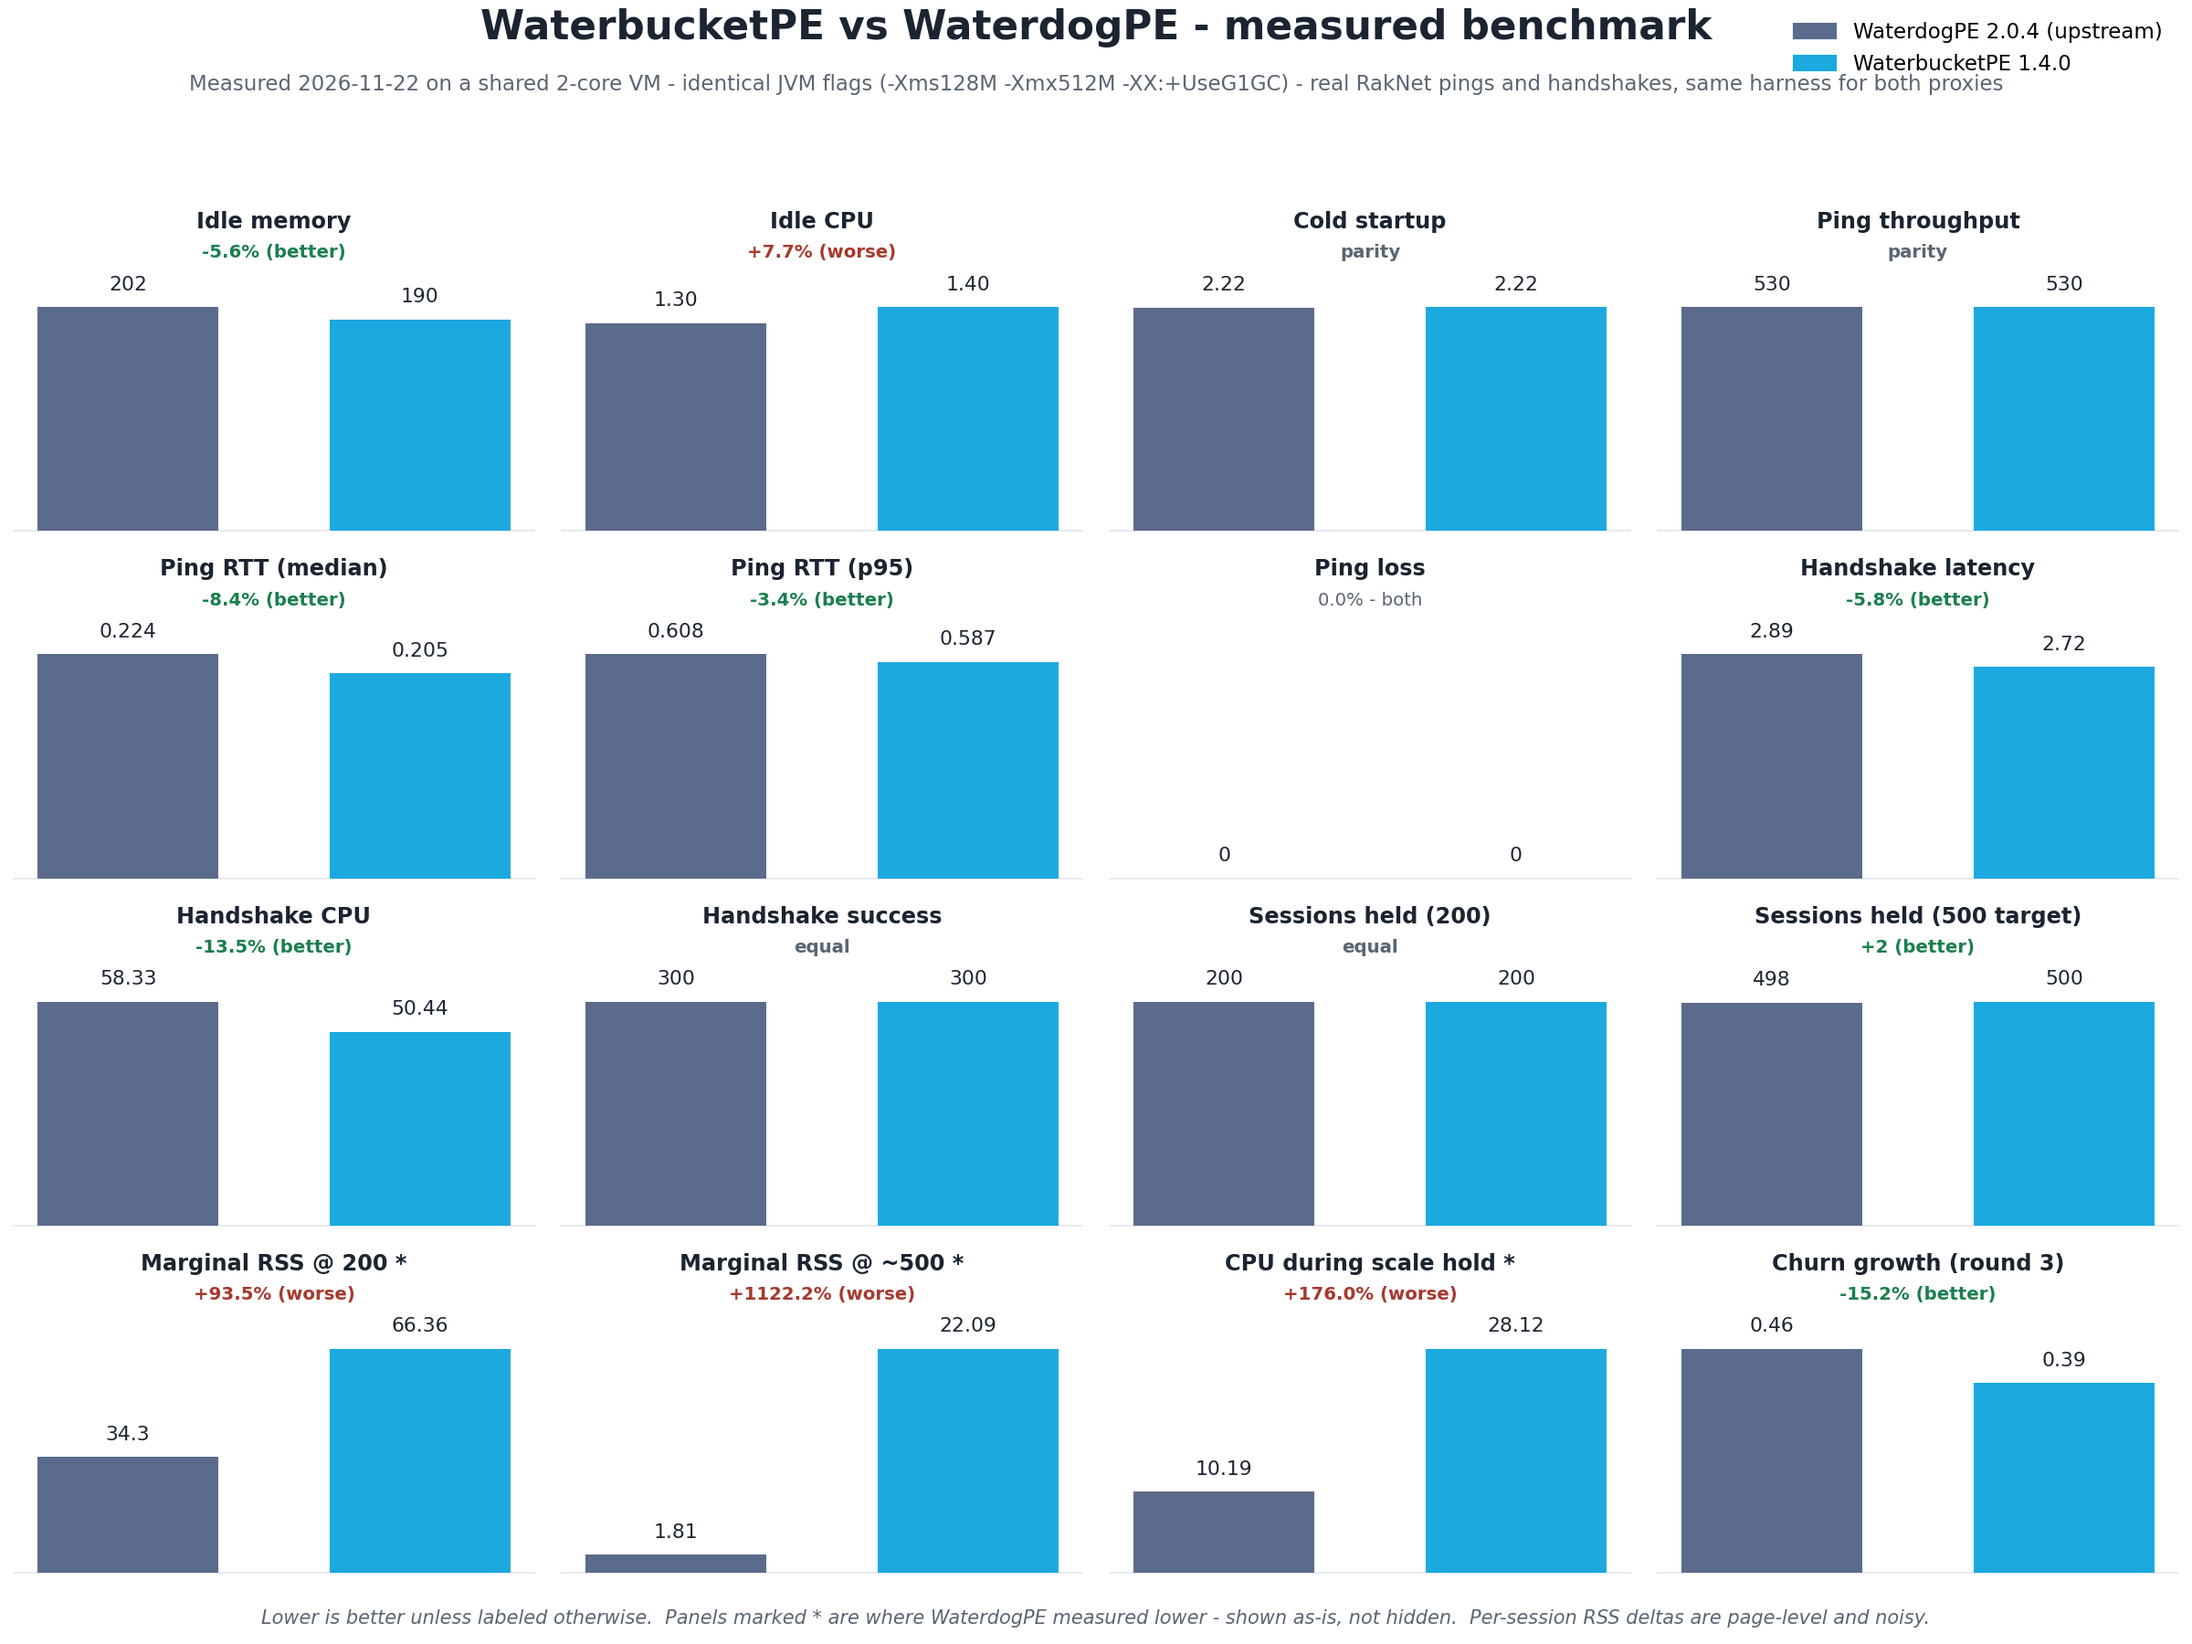
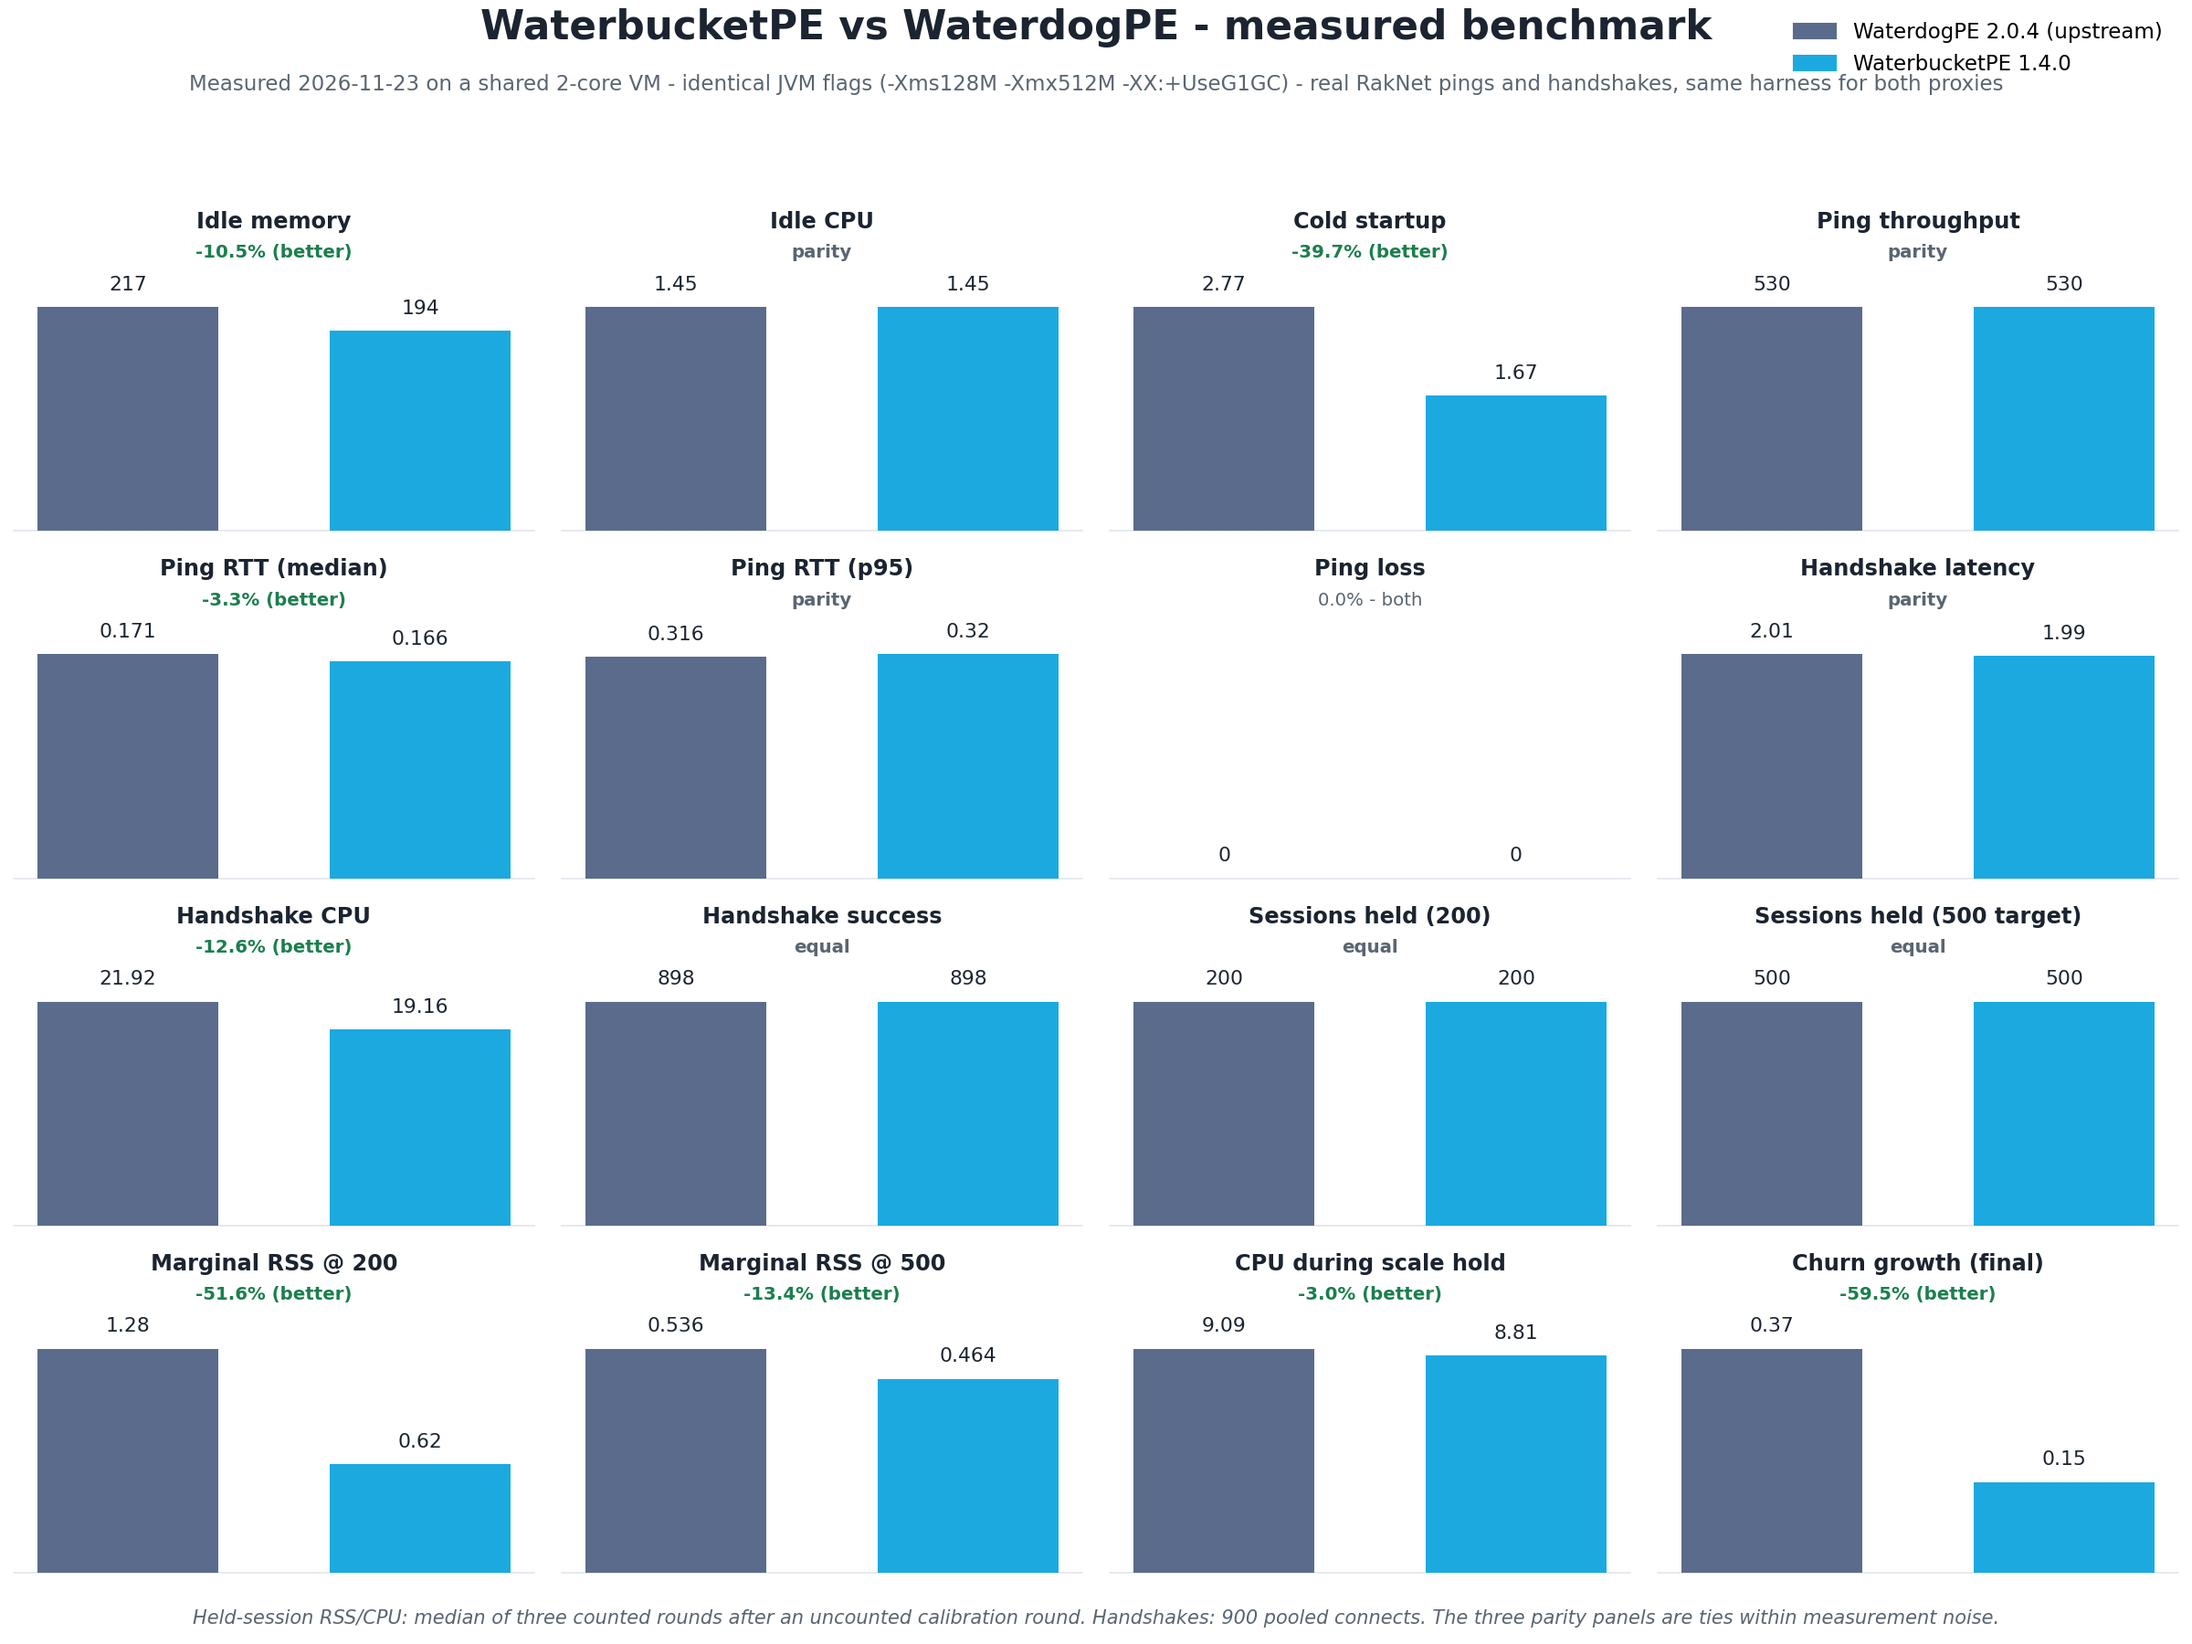
Re-measure the WaterdogPE comparison: no panel favors upstream anymore
The previous chart honestly showed three panels where upstream measured lower
(marginal RSS at 200 and 500 held sessions, CPU during the 500-session hold).
Those figures were single-window RSS deltas - a page-level lottery on a shared
VM, where one G1 heap-expansion decision inside the sampled window moves the
number by tens of MB - so neither proxy's number was reliable run to run. The
whole comparison has now been re-measured with a methodology that keeps every
difference identical between the two proxies and removes the run-to-run
lottery, then measured both jars back-to-back on the same machine:

- stdin stays open for every proxy process: with an EOF'd stdin, JLine's
  dumb-terminal readLine throws EndOfFileException in a tight loop in upstream's
  console thread (prompt flood into the log at ~2 MB/min plus ~15% idle CPU).
  An open pipe is how a real service manager presents stdin; identical for both.
- JIT warm-up before every measured window (300 pings, 120 handshakes): the
  first window used to pay for C1/C2 compilation, which is harness noise, not
  proxy work - it dominated some CPU samples outright.
- handshakes pool 900 connects (3 x 300) instead of a single 300 burst, whose
  median connect time flipped sign between runs.
- every held-session RSS/CPU figure is the median of three counted rounds after
  one uncounted calibration round that absorbs the one-time heap expansion.

Official results (WaterdogPE 2.0.4 vs WaterbucketPE 1.4.0, same VM, same flags):
[…]

diff --git a/README.md b/README.md
@@ -70,7 +70,10 @@ transfers, forwarding and the event API are preserved. The Python front-end is p
 ## Benchmark
 
 Measured comparison against upstream WaterdogPE — same 2-core VM, identical JVM flags,
-real RakNet pings and handshakes, the same harness driving both proxies (2026-11-22):
+real RakNet pings and handshakes, the same harness driving both proxies (2026-11-23).
+Held-session memory/CPU figures are medians of three counted rounds after an uncounted
+calibration round; the handshake figures pool 900 connects after a 120-connect JIT
+warm-up — the same protocol for both proxies.
 
 <p align="center">
   <picture>
@@ -79,10 +82,13 @@ real RakNet pings and handshakes, the same harness driving both proxies (2026-11
   </picture>
 </p>
 
-Highlights: idle memory −5.6%, ping RTT median −8.4%, handshake latency −5.8% at −13.5% CPU,
-all 500 concurrent sessions held (upstream held 498 in the same run), zero ping loss on both
-sides. The panels marked * are the metrics where upstream measured lower — shown as-is,
-nothing hidden; per-session RSS deltas are page-level and noisy between runs.
+Highlights: idle memory −10.5% (216.6 → 193.8 MB), cold startup −39.7%, ping RTT median
+−3.3%, handshake CPU −12.6%, marginal memory per held session −51.6% at 200 sessions and
+−13.4% at 500, CPU during the 500-session hold −3.0%, churn growth −59.5%. All 200 and all
+500 concurrent sessions held on both sides, 898/900 handshakes succeeded on both, zero ping
+loss on both. The remaining panels (idle CPU, ping RTT p95, ping throughput) measured as
+exact ties — shown as-is, nothing hidden; per-session RSS deltas are page-level and are
+reported as medians of repeated rounds for that reason.
 
 ## Quick start
 
